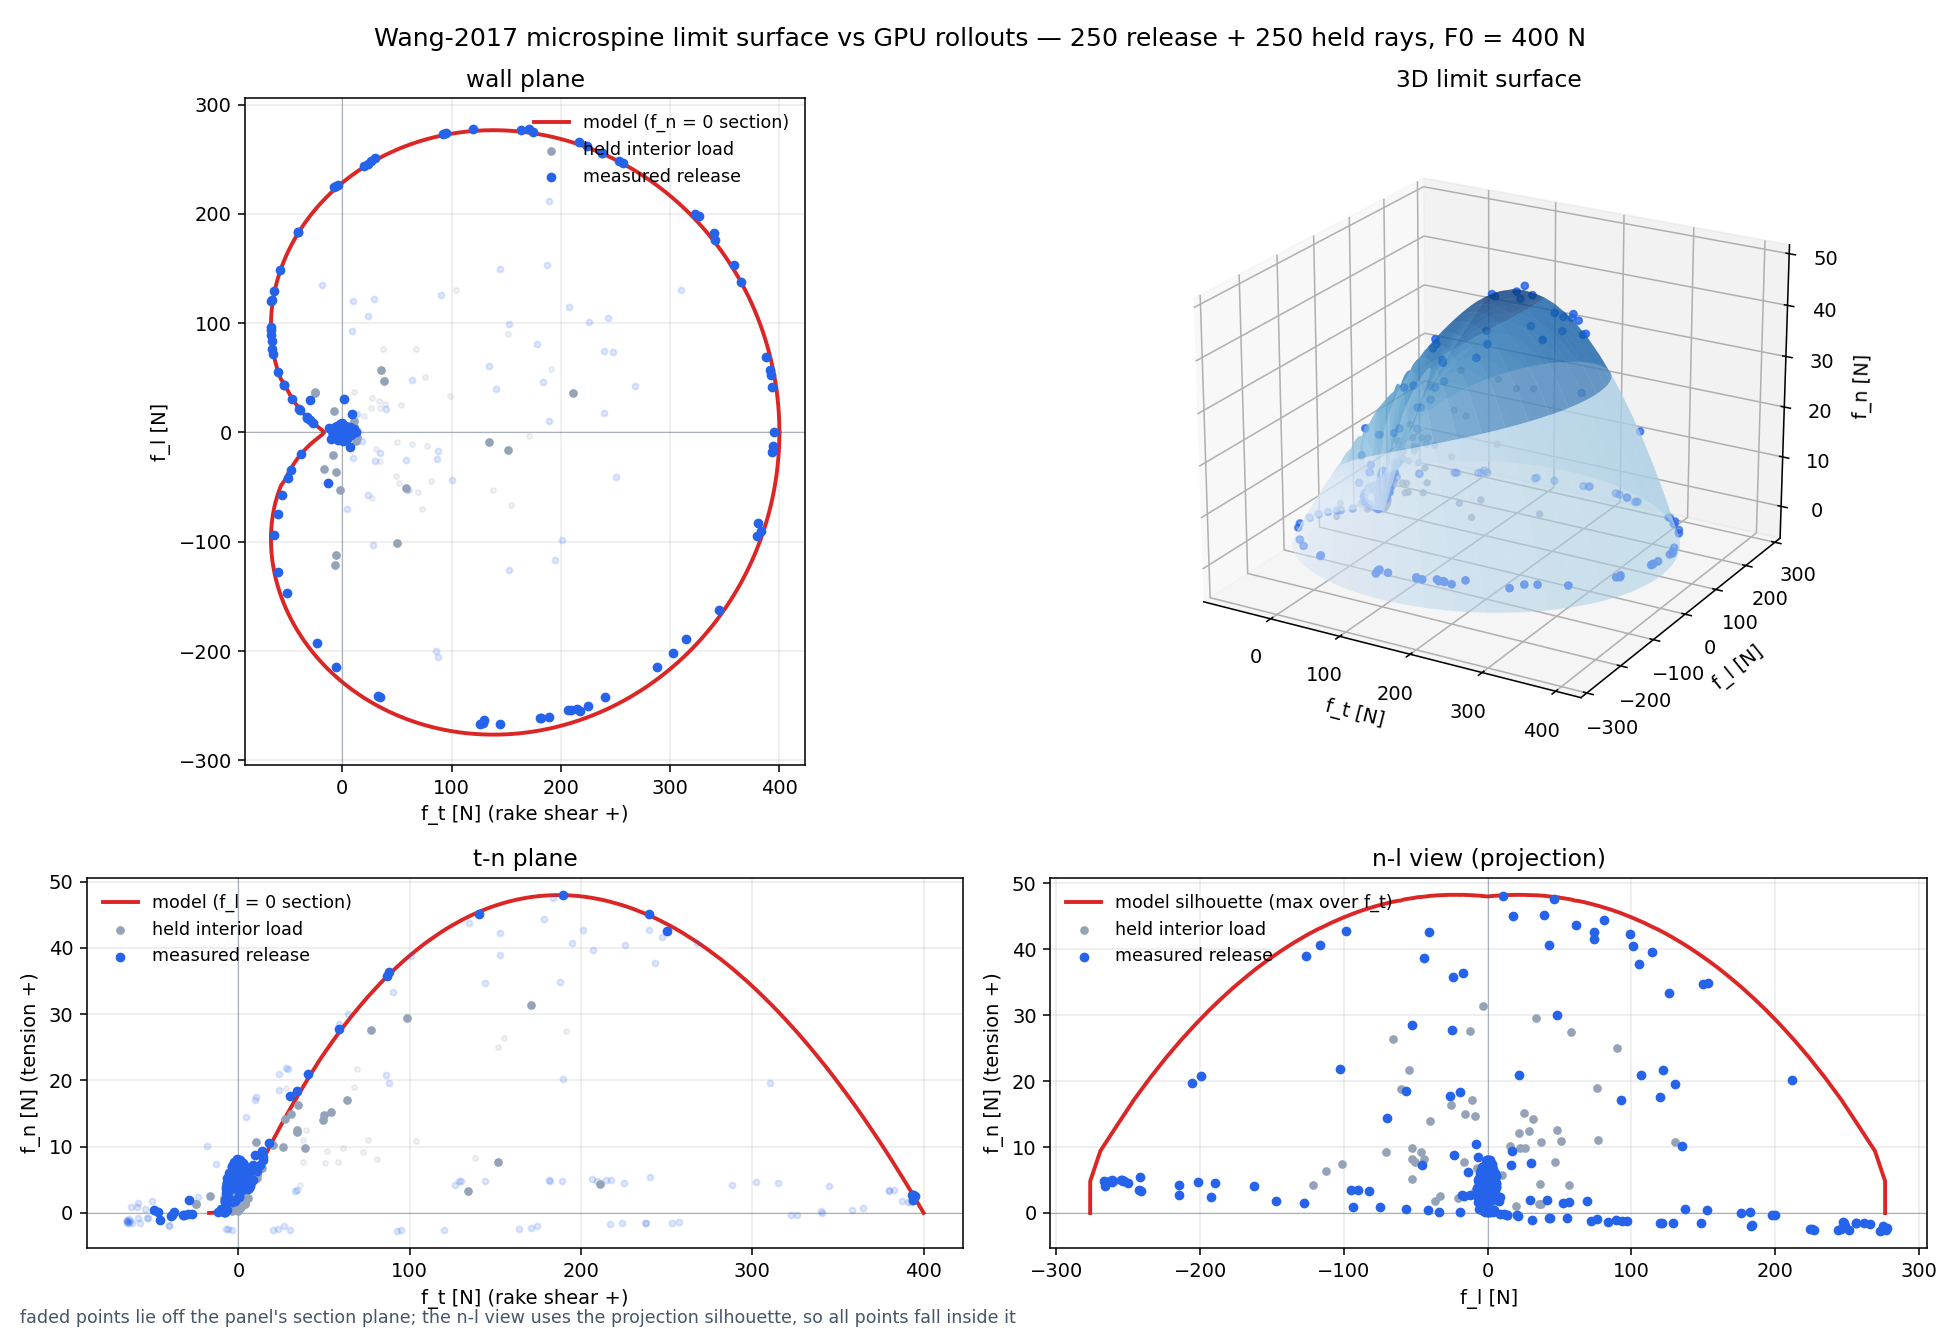
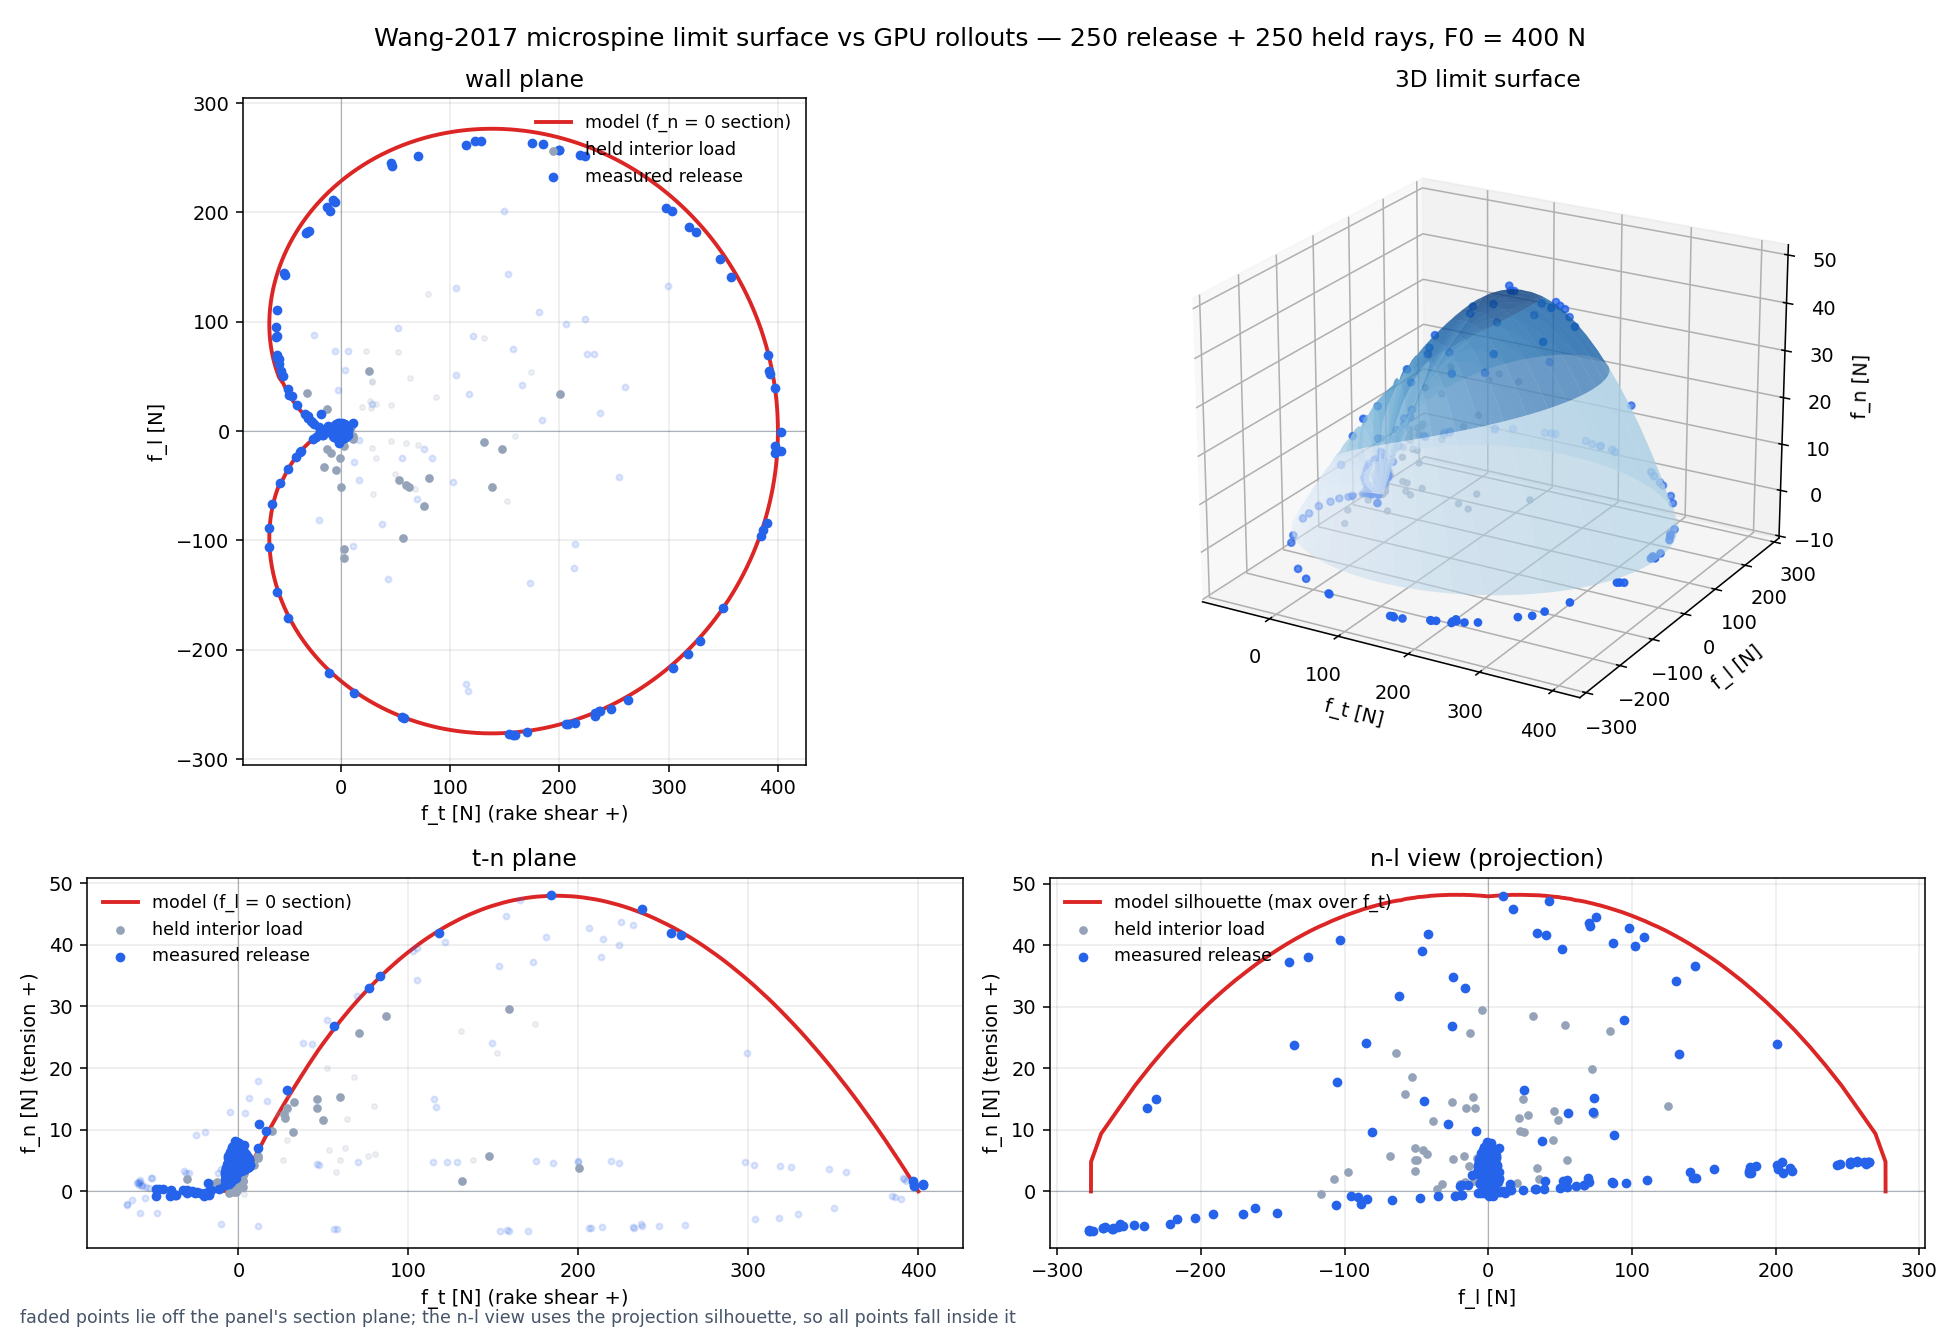
teleop bench: Wang-2017 envelope + latched-contact retraction; fig8 revalidated
PadTeleop now mirrors production climb physics: wang2017 model with a
deterministic F0 = 400 N (fig8's value, inside the climb DR range) and
disable_contacts_while_latched on both cfg owners. LimitSurfaceView grows a
wang2017 branch — the closed LUT surface rendered as one azimuth x
elevation grid (r_floor baked in, so the drawn boundary is exactly the
enforcement boundary), rim + symmetry meridians as feature edges, axis
ranges from the mesh, wang-tagged npz save. The legacy wedge path is
unchanged for wedge-model benches.

Headless bench probe: engage -> latched pad zero contact force, hold margin
0.50-0.98 with zero sign flips, quasistatic ramp releases at |F|/capacity
= 1.08 on the drawn surface. fig8 rerun under the new physics: 250/250
boundary releases on the surface, release-load error p50 0.8% / p90 2.9%
(was 0.9% / 3.6%), 241/250 interiors held.

diff --git a/src/scr_phybot_mjab/tools/limit_surface_teleop/view.py b/src/scr_phybot_mjab/tools/limit_surface_teleop/view.py
@@ -179,6 +179,63 @@ def _polyline_segments(polylines: list[np.ndarray]) -> np.ndarray:
     return np.concatenate(segments, axis=0) if segments else _EMPTY_POINTS.copy()
 
 
+def _wang_lut_sample(
+    lut: np.ndarray, theta_deg: np.ndarray, phi_deg: np.ndarray
+) -> np.ndarray:
+    """Bilinear sample of the normalized Wang capacity table R[theta, phi]."""
+    n_t, n_p = lut.shape
+    ti = np.clip(theta_deg / 180.0 * (n_t - 1), 0, n_t - 1)
+    pi = np.clip(phi_deg / 90.0 * (n_p - 1), 0, n_p - 1)
+    t0 = np.minimum(ti.astype(int), n_t - 2)
+    p0 = np.minimum(pi.astype(int), n_p - 2)
+    tw = ti - t0
+    pw = pi - p0
+    return (
+        lut[t0, p0] * (1 - tw) * (1 - pw)
+        + lut[t0, p0 + 1] * (1 - tw) * pw
+        + lut[t0 + 1, p0] * tw * (1 - pw)
+        + lut[t0 + 1, p0 + 1] * tw * pw
+    )
+
+
+def _wang_envelope_patch(
+    wang: Mapping[str, object], n_az: int = 97, n_el: int = 25
+) -> tuple[np.ndarray, np.ndarray, np.ndarray]:
+    """Closed Wang-2017 surface as one rectangular (azimuth x elevation) grid.
+
+    Azimuth runs the full circle (the LUT covers 0-180 deg; the surface is
+    mirror-symmetric in f_l), elevation runs 0-90 deg toward tension. The
+    ``r_floor`` scrap the release check applies is baked in, so the drawn
+    surface is exactly the enforcement boundary. Compression (f_n < 0) has no
+    envelope boundary, as before.
+    """
+    lut = np.asarray(wang["lut"], dtype=float)
+    f0 = float(wang["f0"])
+    r_floor = float(wang["r_floor"])
+    u = np.linspace(0.0, 2.0 * np.pi, max(int(n_az), 25))
+    phi = np.linspace(0.0, 0.5 * np.pi, max(int(n_el), 9))
+    U, PHI = np.meshgrid(u, phi, indexing="ij")
+    theta_deg = np.degrees(np.abs(np.arctan2(np.sin(U), np.cos(U))))
+    cap = f0 * np.maximum(_wang_lut_sample(lut, theta_deg, np.degrees(PHI)), r_floor)
+    return (
+        cap * np.cos(PHI) * np.cos(U),
+        cap * np.cos(PHI) * np.sin(U),
+        cap * np.sin(PHI),
+    )
+
+
+def _wang_feature_edges(
+    patch: tuple[np.ndarray, np.ndarray, np.ndarray],
+) -> list[np.ndarray]:
+    """The f_n = 0 rim and the two symmetry meridians (u = 0 and u = pi)."""
+    X, Y, Z = patch
+    return [
+        np.column_stack((X[:, 0], Y[:, 0], Z[:, 0])),
+        np.column_stack((X[0], Y[0], Z[0])),
+        np.column_stack((X[X.shape[0] // 2], Y[X.shape[0] // 2], Z[X.shape[0] // 2])),
+    ]
+
+
 def _envelope_feature_edges(params: Mapping[str, float], z_floor: float) -> list[np.ndarray]:
     """Return the true cap intersections and the f_t=0 surface crease."""
     t = _t_samples(params)
@@ -267,7 +324,21 @@ class LimitSurfaceView:
             raise ValueError("trail_len must be positive")
 
         self.params = dict(limit_params)
-        self._plot_params = _validate_limit_params(limit_params)
+        # Two envelope flavors: the legacy wedge (scalar cone parameters) and
+        # the Wang-2017 closed surface (normalized LUT scaled by F0), matching
+        # MicrospineLimitSurfaceCfg.model on the bench being visualized.
+        if limit_params.get("model") == "wang2017":
+            self._wang = {
+                "f0": float(limit_params["f0"]),
+                "r_floor": float(limit_params.get("r_floor", 0.0)),
+                "lut": np.asarray(limit_params["lut"], dtype=float),
+            }
+            self._plot_params = None
+            self._wang_patch = _wang_envelope_patch(self._wang)
+        else:
+            self._wang = None
+            self._wang_patch = None
+            self._plot_params = _validate_limit_params(limit_params)
         self.releases: list[np.ndarray] = []
         self._trail: list[np.ndarray] = []
         self._trail_len = int(trail_len)
@@ -335,11 +406,16 @@ class LimitSurfaceView:
 
         self._gl = gl
         p = self._plot_params
-        lateral_max, normal_max = _capacities(p, p["f_t_max"])
-        lateral_max = float(lateral_max)
-        normal_max = float(normal_max)
-
-        x_scale = _axis_scale(-p["f_rev_max"], p["f_t_max"])
+        if self._wang is not None:
+            Xw, Yw, Zw = self._wang_patch
+            lateral_max = float(np.abs(Yw).max())
+            normal_max = float(Zw.max())
+            x_scale = _axis_scale(float(Xw.min()), float(Xw.max()))
+        else:
+            lateral_max, normal_max = _capacities(p, p["f_t_max"])
+            lateral_max = float(lateral_max)
+            normal_max = float(normal_max)
+            x_scale = _axis_scale(-p["f_rev_max"], p["f_t_max"])
         y_scale = _axis_scale(-lateral_max, lateral_max)
         # Compression has no physical envelope boundary.  Show a useful finite
         # portion of it and make the display truncation explicit in the HUD.
@@ -396,7 +472,11 @@ class LimitSurfaceView:
         # separate darker feature layer makes the true cap intersections crisp.
         self._surface_items = []
         self._wire_items = []
-        patches = _envelope_patches(p, self._z_floor)
+        patches = (
+            [self._wang_patch]
+            if self._wang is not None
+            else _envelope_patches(p, self._z_floor)
+        )
         face_alphas = (0.18, 0.105, 0.105, 0.085, 0.085)
         for patch_index, (patch, alpha) in enumerate(zip(patches, face_alphas, strict=True)):
             vertices, faces = _mesh_to_verts_faces(*patch)
@@ -428,7 +508,11 @@ class LimitSurfaceView:
             self._wire_items.append(wire)
 
         feature_edges = gl.GLLinePlotItem(
-            pos=_polyline_segments(_envelope_feature_edges(p, self._z_floor)),
+            pos=_polyline_segments(
+                _wang_feature_edges(self._wang_patch)
+                if self._wang is not None
+                else _envelope_feature_edges(p, self._z_floor)
+            ),
             color=(*_FEATURE_RGB, 0.92),
             width=1.8,
             mode="lines",
@@ -862,7 +946,17 @@ class LimitSurfaceView:
         self._update_hud(self._last_load, self._last_margin, released=False)
 
     def save(self, path: str):
-        """Save release points and the parameter vector used by the figure."""
+        """Save release points and the envelope description used by the figure."""
         releases = np.asarray(self.releases, dtype=float).reshape(-1, 3)
+        if self._wang is not None:
+            np.savez(
+                path,
+                releases=releases,
+                model="wang2017",
+                f0=self._wang["f0"],
+                r_floor=self._wang["r_floor"],
+                lut=self._wang["lut"],
+            )
+            return
         params = np.array([self._plot_params[key] for key in _LIMIT_KEYS], dtype=float)
         np.savez(path, releases=releases, params=params)

diff --git a/src/scr_phybot_mjab/tools/limit_surface_teleop/pad_teleop.py b/src/scr_phybot_mjab/tools/limit_surface_teleop/pad_teleop.py
@@ -67,12 +67,15 @@ class PadTeleop:
         cfg.actions["cartesian_pose"].posture_weight = 0.0
         for a in cfg.scene.entities["robot"].articulation.actuators:
             a.stiffness = 1e-6; a.damping = 0.0
-        # Restore the true envelope (f_n0/f_l0 back to the real ~15, not the
-        # bench's de-fanged 200) AND collapse every limit-surface range to its
-        # midpoint. Collapsing kills the per-env domain randomization so the
-        # env's actual release envelope is exactly `self.limit_params` below —
-        # the bench maps one deterministic true envelope, and every release
-        # lands on it (not on a per-reset random draw).
+        # Mirror the production climb physics on the bench (2026-07-24): the
+        # Wang-2017 closed envelope with a deterministic F0 (400 N — the fig8
+        # validation figure's value, inside the climb DR range 400-650), and
+        # latched-contact retraction so the anchor alone carries a latched pad
+        # (kills the anchor-vs-contact load oscillation; what the bench maps
+        # is exactly what the task enforces). Every limit-surface range is
+        # collapsed to a point so the env's actual release envelope equals
+        # `self.limit_params` below — every release lands on the drawn
+        # surface, not on a per-reset random draw.
         d = MicrospineLimitSurfaceCfg()
         m = cfg.commands["microspine_affordance"].microspine_cfg
         mid = lambda r: 0.5 * (r[0] + r[1])
@@ -81,6 +84,9 @@ class PadTeleop:
             "f_n0_range", "mu_lateral_range", "f_l0_range",
         )
         for owner in (m, cfg.events["microspine_grip"].params["microspine_cfg"]):
+            owner.limit_surface.model = "wang2017"
+            owner.limit_surface.f_t_max_range = (400.0, 400.0)
+            owner.disable_contacts_while_latched = True
             owner.limit_surface.f_n0_range = d.f_n0_range
             owner.limit_surface.f_l0_range = d.f_l0_range
             for attr in _range_attrs:
@@ -117,11 +123,23 @@ class PadTeleop:
 
         mid = lambda r: 0.5 * (r[0] + r[1])
         ls = m.limit_surface
-        self.limit_params = {
-            "f_t_max": mid(ls.f_t_max_range), "f_rev_max": mid(ls.f_rev_max_range),
-            "mu_adhesion": mid(ls.mu_adhesion_range), "f_n0": mid(ls.f_n0_range),
-            "mu_lateral": mid(ls.mu_lateral_range), "f_l0": mid(ls.f_l0_range),
-        }
+        if ls.model == "wang2017":
+            from scr_phybot_mjab.microspine.wang_limit_surface import (
+                build_capacity_lut,
+            )
+
+            self.limit_params = {
+                "model": "wang2017",
+                "f0": mid(ls.f_t_max_range),
+                "r_floor": ls.wang_r_floor,
+                "lut": build_capacity_lut(ls, "cpu").numpy(),
+            }
+        else:
+            self.limit_params = {
+                "f_t_max": mid(ls.f_t_max_range), "f_rev_max": mid(ls.f_rev_max_range),
+                "mu_adhesion": mid(ls.mu_adhesion_range), "f_n0": mid(ls.f_n0_range),
+                "mu_lateral": mid(ls.mu_lateral_range), "f_l0": mid(ls.f_l0_range),
+            }
         self.home()
 
     # --- kinematics -------------------------------------------------------
